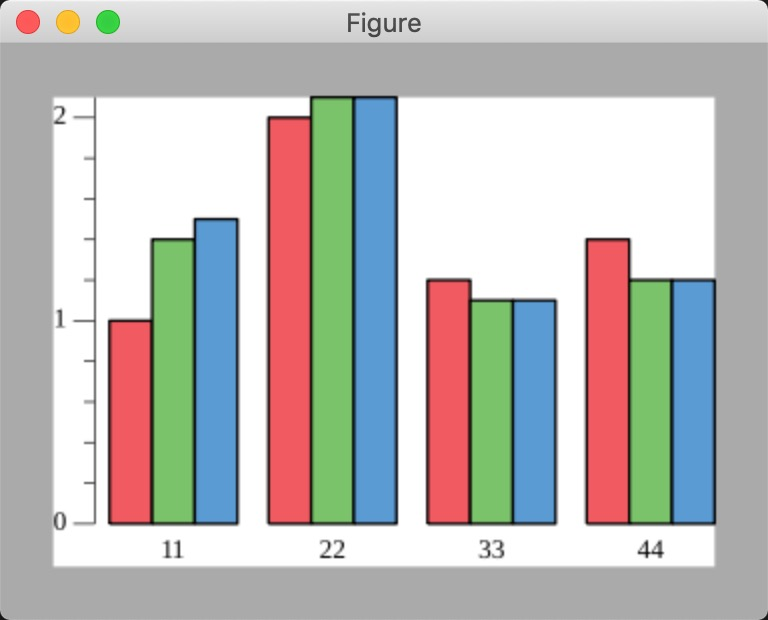
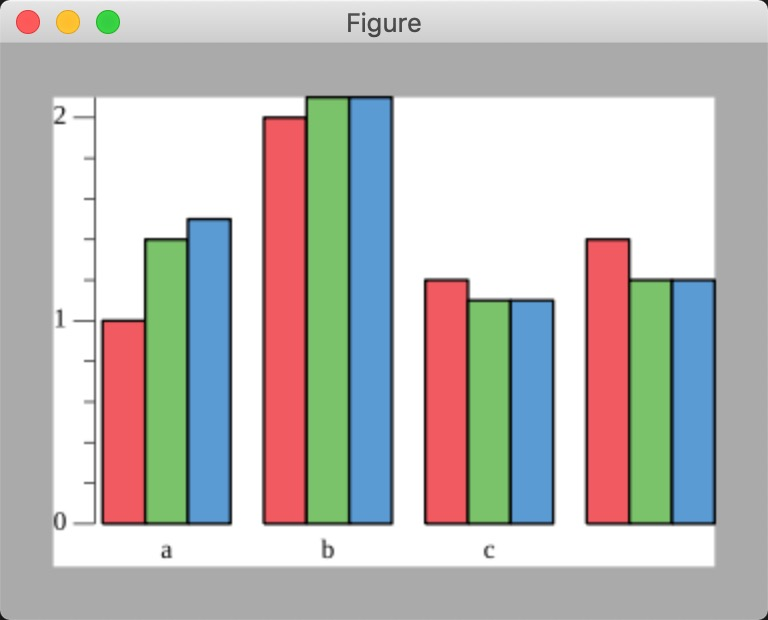
update image

diff --git a/tutorial/07-bar/gop_autogen.go b/tutorial/07-bar/gop_autogen.go
@@ -14,7 +14,7 @@ func (this *index) MainEntry() {
 //line /Users/wuxinyi/go/src/github.com/go-wyvern/gplot/tutorial/01_single_plot/plot.p:3
 	c := []float64{1.5,2.1,1.1,1.2}
 //line /Users/wuxinyi/go/src/github.com/go-wyvern/gplot/tutorial/01_single_plot/plot.p:4
-	gplot.NominalX("11","22","33","44")
+	gplot.NominalX("a","b","c")
 //line /Users/wuxinyi/go/src/github.com/go-wyvern/gplot/tutorial/01_single_plot/plot.p:5
 	gplot.Bar(a, b, c)
 }

diff --git a/README.md b/README.md
@@ -133,8 +133,9 @@ Here are some codes in [index.plot](tutorial/06-bar/index.plot):
 
 
 ```go
-x := linspace(0, 2*pi, 20)
-y := [sin(i) for i <- x]
-title("this is title")
-plot(x, y)
+a := [1, 3, 5, 7, 11]
+b := [1, 3, 5, 7, 11]
+c := [1, 3, 5, 7, 11]
+nominalX("a", "b", "c")
+bar(a, b, c)
 ```
